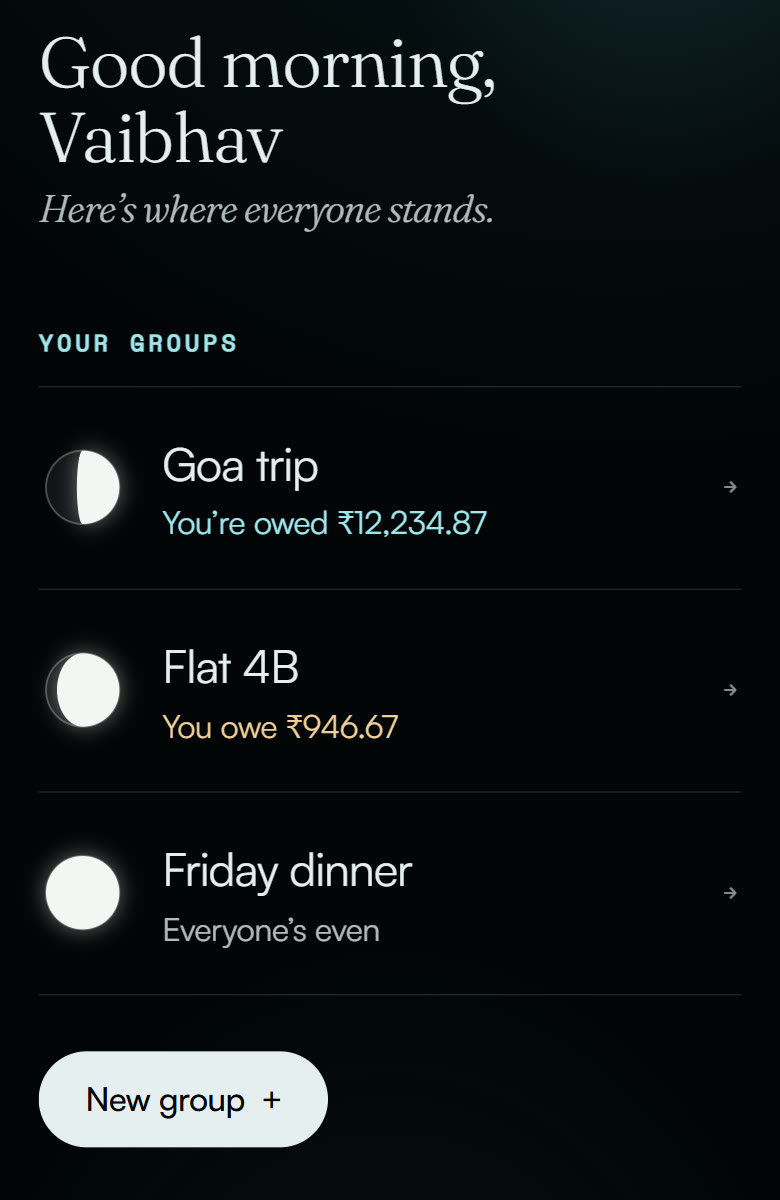
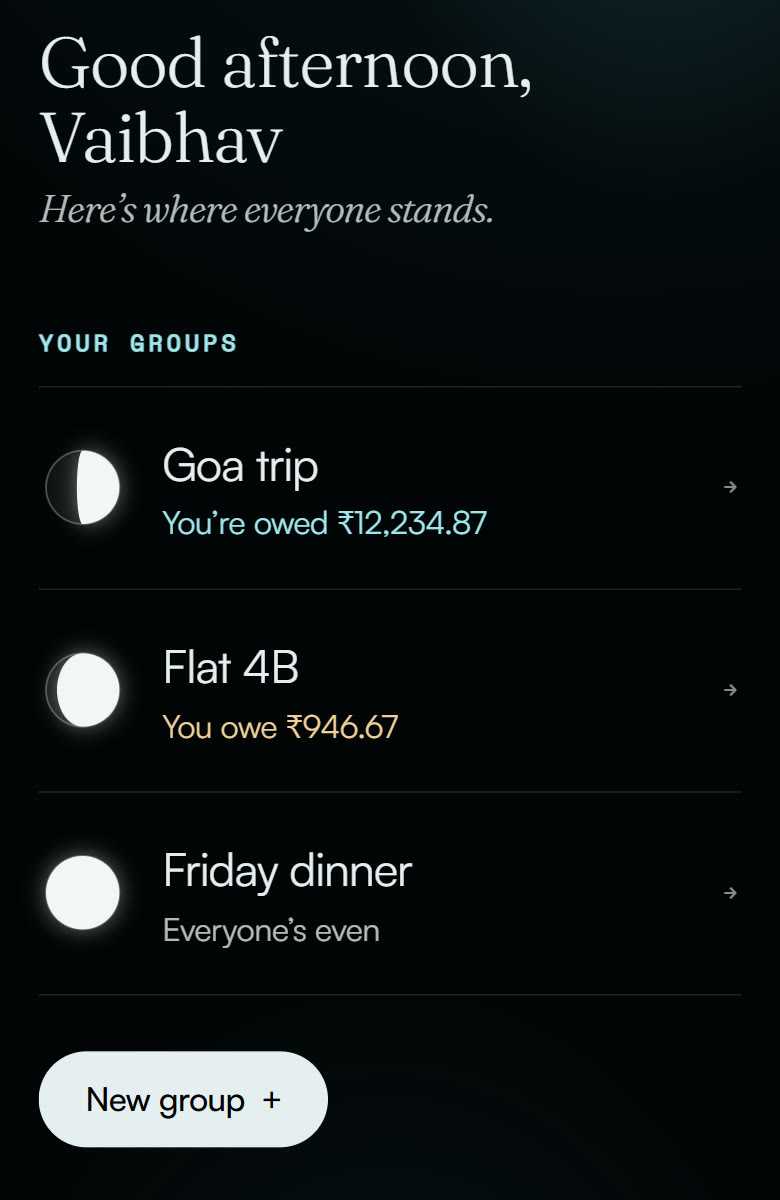
fix: Eventide pictures from its current app, and its Android, Windows and Linux apps named

Changed region(s): [[0.2769, 0.0308, 0.6769, 0.0925]]

diff --git a/src/content/projects.ts b/src/content/projects.ts
@@ -88,10 +88,10 @@ export const projects: readonly Project[] = [
     year: 2026,
     kind: 'Full-stack app',
     role: 'Design, code and infrastructure',
-    tools: ['TypeScript', 'PostgreSQL', 'Cloudflare Workers', 'Hono', 'Preact', 'Playwright'],
+    tools: ['TypeScript', 'PostgreSQL', 'Cloudflare Workers', 'Hono', 'Preact', 'Tauri', 'Playwright'],
     summary: 'Split costs with a flat, a trip or a dinner, and settle up in as few payments as possible.',
     details: [
-      'A Splitwise-style app that installs on a phone and keeps working offline. Every expense is double-entry bookkeeping: its postings must sum to zero or Postgres refuses the commit, and nothing is ever edited, only reversed, so the history can always be audited.',
+      'A Splitwise-style app that runs in the browser and as Android, Windows and Linux apps, and keeps working offline. Every expense is double-entry bookkeeping: its postings must sum to zero or Postgres refuses the commit, and nothing is ever edited, only reversed, so the history can always be audited.',
       'It runs entirely on free tiers: one Cloudflare Worker serves the app and the API, in front of Postgres on Neon. Each person can only ever read their own groups, and that is enforced by the database itself, not just the code.',
     ],
     hardPart:
